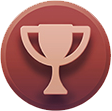
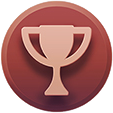
Styles for Header

diff --git a/components/header/GamesHeader.js b/components/header/GamesHeader.js
@@ -1,11 +1,20 @@
 import React from "react";
 import { useSelector } from "react-redux";
 import styled from "styled-components";
+import {
+  BRONZE,
+  getIconForTrophyType,
+  getTrophyIconForLevel,
+  GOLD,
+  PLATINUM,
+  SILVER,
+} from "../../helpers/gameHelper";
 import { calculateProfileData } from "../../helpers/profileHelper";
 
 const Container = styled.div`
   min-width: 100%;
   display: flex;
+  padding: 5rem 1rem 1rem 1rem;
   align-items: center;
   justify-content: center;
 `;
@@ -13,7 +22,7 @@ const Container = styled.div`
 const LeftContainer = styled.div`
   flex: 1;
   display: flex;
-  align-items: center;
+  align-items: flex-end;
   justify-content: flex-start;
   padding-left: 20rem;
 `;
@@ -23,6 +32,7 @@ const RightContainer = styled.div`
   display: flex;
   align-items: center;
   justify-content: center;
+  padding-right: 20rem;
 `;
 
 const Title = styled.div`
@@ -36,6 +46,23 @@ const Title = styled.div`
 
 const Level = styled.div`
   display: flex;
+  align-items: flex-end;
+  flex: 1;
+  justify-content: center;
+`;
+
+const Total = styled.div`
+  display: flex;
+  flex: 1;
+  flex-direction: column;
+  align-items: center;
+  font-size: 2rem;
+  justify-content: center;
+`;
+
+const Trophy = styled.div`
+  display: flex;
+  flex: 1;
   align-items: center;
   justify-content: center;
 `;
@@ -43,8 +70,8 @@ const Level = styled.div`
 const LevelIcon = styled.div`
   display: flex;
   align-items: center;
-  width: 50px;
-  height: 50px;
+  width: 55px;
+  height: 55px;
   justify-content: center;
   background: url("${(props) => props.iconSource}");
   background-repeat: no-repeat;
@@ -54,22 +81,18 @@ const LevelIcon = styled.div`
 const LevelData = styled.div`
   display: flex;
   align-items: center;
+  height: 50px;
   padding: 1rem;
   color: #d7d9da;
   font-size: 4rem;
-  justify-content: center;
-`;
-
-const Total = styled.div`
-  display: flex;
-  align-items: center;
-  justify-content: center;
+  justify-content: flex-end;
 `;
 
 const TotalTitle = styled.div`
   display: flex;
   align-items: center;
   justify-content: center;
+  color: #8d9098;
 `;
 
 const TotalData = styled.div`
@@ -78,21 +101,23 @@ const TotalData = styled.div`
   justify-content: center;
 `;
 
-const Trophy = styled.div`
-  display: flex;
-  align-items: center;
-  justify-content: center;
-`;
-
 const TrophyIcon = styled.div`
   display: flex;
   align-items: center;
+  width: 80px;
+  height: 80px;
   justify-content: center;
+  background: url("${(props) => props.icon}");
+  background-repeat: no-repeat;
+  background-size: contain;
 `;
 
 const TrophyData = styled.div`
   display: flex;
-  align-items: center;
+  align-items: flex-end;
+  padding-bottom: 0.1rem;
+  font-size: 2rem;
+  height: 60px;
   justify-content: center;
 `;
 
@@ -100,6 +125,7 @@ export default function GamesHeader({ profileData }) {
   const {
     profileLevel,
     totalTrophies,
+    platinumTrophies,
     goldTrophies,
     silverTrophies,
     bronzeTrophies,
@@ -112,12 +138,28 @@ export default function GamesHeader({ profileData }) {
       </LeftContainer>
       <RightContainer>
         <Level>
-          <LevelIcon iconSource={"4.png"} />
+          <LevelIcon iconSource={getTrophyIconForLevel(profileLevel)} />
           <LevelData>{profileLevel}</LevelData>
         </Level>
+        <Total>
+          <TotalTitle>Total</TotalTitle>
+          <TotalData>{totalTrophies}</TotalData>
+        </Total>
         <Trophy>
-          <TrophyIcon></TrophyIcon>
-          <TrophyData></TrophyData>
+          <TrophyIcon icon={getIconForTrophyType(PLATINUM)} />
+          <TrophyData>{platinumTrophies}</TrophyData>
+        </Trophy>
+        <Trophy>
+          <TrophyIcon icon={getIconForTrophyType(GOLD)} />
+          <TrophyData>{goldTrophies}</TrophyData>
+        </Trophy>
+        <Trophy>
+          <TrophyIcon icon={getIconForTrophyType(SILVER)} />
+          <TrophyData>{silverTrophies}</TrophyData>
+        </Trophy>
+        <Trophy>
+          <TrophyIcon icon={getIconForTrophyType(BRONZE)} />
+          <TrophyData>{bronzeTrophies}</TrophyData>
         </Trophy>
       </RightContainer>
     </Container>

diff --git a/helpers/profileHelper.js b/helpers/profileHelper.js
@@ -2,6 +2,7 @@ export const calculateProfileData = (games) => {
   let profileLevel = 0;
   let totalPoints = 0;
   let totalTrophies = 0;
+  let platinumTrophies = 0;
   let goldTrophies = 0;
   let silverTrophies = 0;
   let bronzeTrophies = 0;
@@ -15,6 +16,10 @@ export const calculateProfileData = (games) => {
       game &&
         game.achievements &&
         game.achievements.forEach((achievement) => {
+          if (game.completion == 100) {
+            platinumTrophies++;
+          }
+
           if (achievement.percentage && achievement.achieved == 1) {
             let pointsForTrophy = getPointsForAchievementPercentage(
               achievement.percentage
@@ -32,12 +37,13 @@ export const calculateProfileData = (games) => {
         });
     });
 
-  profileLevel = calculateProfileLevelFromPoints(totalPoints);
+  profileLevel = calculateProfileLevelFromPoints(totalPoints).level;
   totalTrophies = silverTrophies + bronzeTrophies + goldTrophies;
 
   return {
     profileLevel,
     totalTrophies,
+    platinumTrophies,
     goldTrophies,
     silverTrophies,
     bronzeTrophies,
@@ -138,9 +144,7 @@ const calculateProfileLevelFromPoints = (points) => {
     remainingPoints: points,
   };
 
-  console.log("BEFORE", levelInfo);
   calculateLevelRecursive(levelInfo);
-  console.log("AFTER", levelInfo);
 
-  return "10";
+  return levelInfo;
 };

diff --git a/helpers/gameHelper.js b/helpers/gameHelper.js
@@ -1,3 +1,48 @@
 export const sortGamesByRecent = (games) => {
   return games;
 };
+
+export const getTrophyIconForLevel = (level) => {
+  if (false) {
+    if (level < 100) {
+      return "1.png";
+    } else if (level >= 100 && level < 200) {
+      return "2.png";
+    } else if (level >= 200 && level < 300) {
+      return "3.png";
+    } else if (level >= 300 && level < 400) {
+      return "4.png";
+    } else if (level >= 400 && level < 500) {
+      return "5.png";
+    } else if (level >= 500 && level < 600) {
+      return "6.png";
+    } else if (level >= 600 && level < 700) {
+      return "7.png";
+    } else if (level >= 700 && level < 800) {
+      return "8.png";
+    } else if (level >= 800 && level < 900) {
+      return "9.png";
+    } else {
+      return "10.png";
+    }
+  }
+  return "5.png";
+};
+
+export const PLATINUM = "PLATINUM";
+export const GOLD = "GOLD";
+export const SILVER = "SILVER";
+export const BRONZE = "BRONZE";
+
+export const getIconForTrophyType = (type) => {
+  switch (type) {
+    case PLATINUM:
+      return "platinumNew.png";
+    case GOLD:
+      return "goldNew.png";
+    case SILVER:
+      return "silverNew.png";
+    case BRONZE:
+      return "bronzeNew.png";
+  }
+};

diff --git a/styles/globals.css b/styles/globals.css
@@ -1,18 +1,19 @@
 @import url("https://fonts.googleapis.com/css2?family=PT+Sans:wght@400;700&display=swap");
 @import url("https://cdn.jsdelivr.net/npm/bootstrap@3.3.7/dist/css/bootstrap.min.css");
-@import url("https://fonts.googleapis.com/css2?family=Mulish:wght@200&family=Oxygen:wght@300&display=swap");
+@import url("https://fonts.googleapis.com/css2?family=M+PLUS+Rounded+1c:wght@100;300;400;500;700;800;900&display=swap");
 
 html,
 body {
   padding: 0;
   margin: 0;
-  font-family: "Oxygen", sans-serif;
-  font-weight: 700;
+  font-family: "M PLUS Rounded 1c", sans-serif;
+  font-weight: 300;
+  color: #d8d8e3;
 }
 
 select,
 options {
-  font-family: "Oxygen", sans-serif;
+  font-family: "M PLUS Rounded 1c", sans-serif;
   font-weight: 700;
 }
 

diff --git a/components/content/GamesContent.js b/components/content/GamesContent.js
@@ -1,5 +1,13 @@
 import React from "react";
+import styled from "styled-components";
+
+const Container = styled.div`
+  display: flex;
+  align-items: center;
+  height: 100%;
+  justify-content: center;
+`;
 
 export default function GamesContent() {
-  return <div>GamesContent</div>;
+  return <Container></Container>;
 }

diff --git a/pages/games/index.js b/pages/games/index.js
@@ -41,7 +41,10 @@ const ContentContainer = styled.div`
   width: 100%;
   display: flex;
   flex: 1;
+  min-height: 90vh;
+  max-height: 90vh;
   align-items: flex-start;
+  padding: 2rem;
   justify-content: center;
 `;
 
